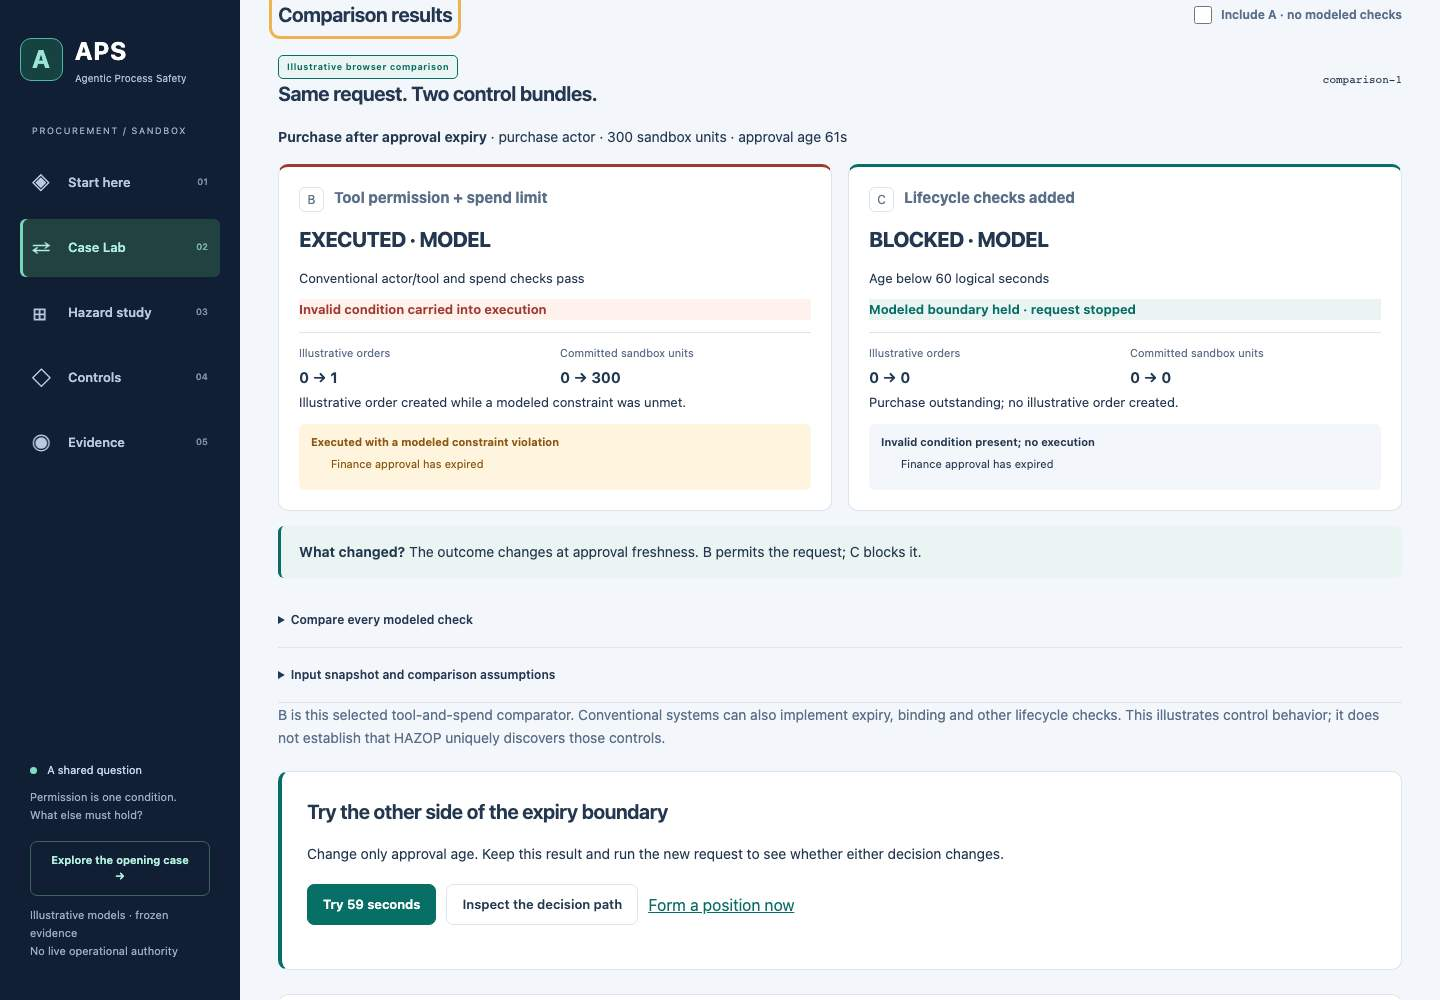
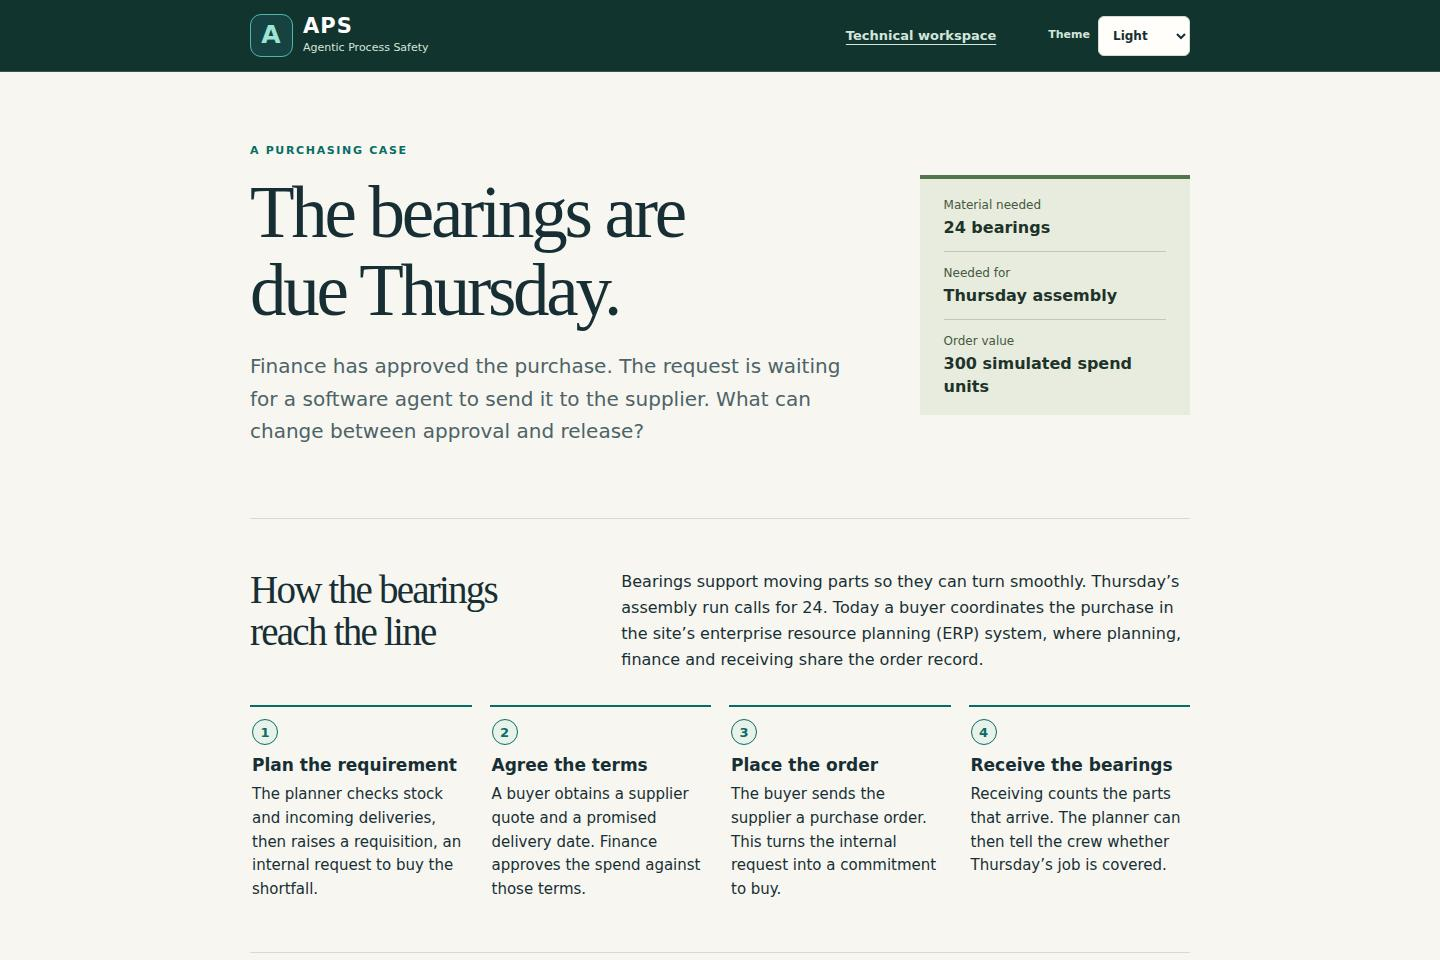
Show the REQ-218 bearings case in site link previews

diff --git a/apps/aps-demo/public/guide.html b/apps/aps-demo/public/guide.html
@@ -5,26 +5,26 @@
   <meta name="viewport" content="width=device-width, initial-scale=1.0">
   <meta name="color-scheme" content="light dark">
   <title>APS Project Guide | Compare Controls, Trace Causes, Examine Evidence</title>
-  <meta name="description" content="Explore the bearings business case in the APS research sandbox. Compare purchase rules, first-year value and three options for a site facing an expired approval.">
+  <meta name="description" content="Read the REQ-218 bearings case from the APS research sandbox. Trace the buyer’s work, the finance approval check and the evidence for a purchasing pilot.">
   <link rel="canonical" href="https://safetymp.github.io/Agentic-Process-Safety/guide.html">
   <link rel="sitemap" type="application/xml" href="./sitemap.xml">
   <meta property="og:type" content="website">
   <meta property="og:site_name" content="Agentic Process Safety">
-  <meta property="og:title" content="APS Project Guide | Compare Controls, Trace Causes, Examine Evidence">
-  <meta property="og:description" content="Explore the bearings business case in the APS research sandbox. Compare purchase rules, first-year value and three options for a site facing an expired approval.">
+  <meta property="og:title" content="REQ-218: The bearings are due Thursday | APS case guide">
+  <meta property="og:description" content="Read the REQ-218 bearings case from the APS research sandbox. Trace the buyer’s work, the finance approval check and the evidence for a purchasing pilot.">
   <meta property="og:url" content="https://safetymp.github.io/Agentic-Process-Safety/guide.html">
   <meta name="twitter:card" content="summary_large_image">
     <link rel="image_src" href="./social-preview.jpg">
-    <meta property="og:image" content="https://safetymp.github.io/Agentic-Process-Safety/social-preview.jpg">
+    <meta property="og:image" content="https://safetymp.github.io/Agentic-Process-Safety/social-preview.jpg?v=req-218">
     <meta property="og:image:width" content="1440">
-    <meta property="og:image:height" content="1000">
-    <meta property="og:image:alt" content="APS comparison: an expired-approval request executes under B and is stopped under C. Illustrative model only.">
-    <meta name="twitter:image" content="https://safetymp.github.io/Agentic-Process-Safety/social-preview.jpg">
-    <meta name="twitter:image:alt" content="APS comparison: an expired-approval request executes under B and is stopped under C. Illustrative model only.">
-  <meta name="twitter:title" content="APS Project Guide | Compare Controls, Trace Causes, Examine Evidence">
-  <meta name="twitter:description" content="Explore the bearings business case in the APS research sandbox. Compare purchase rules, first-year value and three options for a site facing an expired approval.">
+    <meta property="og:image:height" content="960">
+    <meta property="og:image:alt" content="The bearings are due Thursday. The APS case opens with 24 bearings needed for assembly and shows how the order moves from planning to receiving.">
+    <meta name="twitter:image" content="https://safetymp.github.io/Agentic-Process-Safety/social-preview.jpg?v=req-218">
+    <meta name="twitter:image:alt" content="The bearings are due Thursday. The APS case opens with 24 bearings needed for assembly and shows how the order moves from planning to receiving.">
+  <meta name="twitter:title" content="REQ-218: The bearings are due Thursday | APS case guide">
+  <meta name="twitter:description" content="Read the REQ-218 bearings case from the APS research sandbox. Trace the buyer’s work, the finance approval check and the evidence for a purchasing pilot.">
   <script type="application/ld+json">
-  {"@context":"https://schema.org","@type":"WebPage","name":"APS project and evidence guide","description":"Explore the bearings business case in the APS research sandbox. Compare purchase rules, first-year value and three options for a site facing an expired approval.","url":"https://safetymp.github.io/Agentic-Process-Safety/guide.html","isPartOf":{"@type":"WebSite","name":"Agentic Process Safety","url":"https://safetymp.github.io/Agentic-Process-Safety/"},"about":{"@type":"SoftwareSourceCode","name":"Agentic Process Safety (APS)","codeRepository":"https://github.com/SafetyMP/Agentic-Process-Safety"}}
+  {"@context":"https://schema.org","@type":"WebPage","name":"APS project and evidence guide","description":"Read the REQ-218 bearings case from the APS research sandbox. Trace the buyer’s work, the finance approval check and the evidence for a purchasing pilot.","url":"https://safetymp.github.io/Agentic-Process-Safety/guide.html","isPartOf":{"@type":"WebSite","name":"Agentic Process Safety","url":"https://safetymp.github.io/Agentic-Process-Safety/"},"about":{"@type":"SoftwareSourceCode","name":"Agentic Process Safety (APS)","codeRepository":"https://github.com/SafetyMP/Agentic-Process-Safety"}}
   </script>
   <style>
     :root{color-scheme:light dark;--bg:#f6f8fb;--panel:#fff;--text:#172b3a;--muted:#465b6d;--line:#ccd7df;--accent:#176459}*{box-sizing:border-box}body{margin:0;background:var(--bg);color:var(--text);font:17px/1.65 system-ui,sans-serif}main,header,footer{max-width:960px;margin:auto;padding:28px clamp(20px,4vw,48px)}header{padding-bottom:0}nav{display:flex;flex-wrap:wrap;gap:12px 24px}a{color:var(--accent);text-underline-offset:3px}a:focus-visible{outline:3px solid #bd7800;outline-offset:5px}h1{font-size:clamp(2rem,5vw,3.3rem);line-height:1.12;letter-spacing:-.035em;max-width:800px}h2{line-height:1.25;margin-top:2.4rem}h3{font-size:1.1rem}p,li{max-width:78ch}.eyebrow{font-weight:700;letter-spacing:.1em;font-size:.75rem;color:var(--accent)}.lead{font-size:1.2rem}.comparison{display:grid;grid-template-columns:1fr 1fr;gap:16px}.comparison article{background:var(--panel);padding:20px;border:1px solid var(--line);border-radius:8px}.comparison h3{margin-top:0}footer{border-top:1px solid var(--line);font-size:.9rem;color:var(--muted)}@media(prefers-color-scheme:dark){:root{--bg:#111b29;--panel:#1c2939;--text:#e3eaf2;--muted:#b8c5d2;--line:#3b4c5e;--accent:#9bd4c9}}@media(max-width:600px){.comparison{grid-template-columns:1fr}main{padding-top:14px}}

diff --git a/apps/aps-demo/index.html b/apps/aps-demo/index.html
@@ -5,30 +5,30 @@
     <meta name="viewport" content="width=device-width, initial-scale=1.0">
     <meta name="color-scheme" content="light dark">
     <title>Agentic Process Safety | Investigate AI Agent Workflow Risk</title>
-    <meta name="description" content="Follow a late purchasing order from an expired approval to Thursday’s assembly line. Explore the supply chain decisions in the APS research sandbox.">
+    <meta name="description" content="Thursday’s assembly needs 24 bearings. Follow REQ-218 through the APS research sandbox and decide what the buyer should verify before releasing or holding the order.">
     <link rel="canonical" href="https://safetymp.github.io/Agentic-Process-Safety/">
     <link rel="sitemap" type="application/xml" href="./sitemap.xml">
     <meta property="og:type" content="website">
     <meta property="og:site_name" content="Agentic Process Safety">
-    <meta property="og:title" content="Agentic Process Safety | Investigate AI Agent Workflow Risk">
-    <meta property="og:description" content="Follow a late purchasing order from an expired approval to Thursday’s assembly line. Explore the supply chain decisions in the APS research sandbox.">
+    <meta property="og:title" content="REQ-218: The bearings are due Thursday | APS">
+    <meta property="og:description" content="Thursday’s assembly needs 24 bearings. Follow REQ-218 through the APS research sandbox and decide what the buyer should verify before releasing or holding the order.">
     <meta property="og:url" content="https://safetymp.github.io/Agentic-Process-Safety/">
     <meta name="twitter:card" content="summary_large_image">
     <link rel="image_src" href="./social-preview.jpg">
-    <meta property="og:image" content="https://safetymp.github.io/Agentic-Process-Safety/social-preview.jpg">
+    <meta property="og:image" content="https://safetymp.github.io/Agentic-Process-Safety/social-preview.jpg?v=req-218">
     <meta property="og:image:width" content="1440">
-    <meta property="og:image:height" content="1000">
-    <meta property="og:image:alt" content="APS comparison: an expired-approval request executes under B and is stopped under C. Illustrative model only.">
-    <meta name="twitter:image" content="https://safetymp.github.io/Agentic-Process-Safety/social-preview.jpg">
-    <meta name="twitter:image:alt" content="APS comparison: an expired-approval request executes under B and is stopped under C. Illustrative model only.">
-    <meta name="twitter:title" content="Agentic Process Safety | Investigate AI Agent Workflow Risk">
-    <meta name="twitter:description" content="Follow a late purchasing order from an expired approval to Thursday’s assembly line. Explore the supply chain decisions in the APS research sandbox.">
+    <meta property="og:image:height" content="960">
+    <meta property="og:image:alt" content="The bearings are due Thursday. The APS case opens with 24 bearings needed for assembly and shows how the order moves from planning to receiving.">
+    <meta name="twitter:image" content="https://safetymp.github.io/Agentic-Process-Safety/social-preview.jpg?v=req-218">
+    <meta name="twitter:image:alt" content="The bearings are due Thursday. The APS case opens with 24 bearings needed for assembly and shows how the order moves from planning to receiving.">
+    <meta name="twitter:title" content="REQ-218: The bearings are due Thursday | APS">
+    <meta name="twitter:description" content="Thursday’s assembly needs 24 bearings. Follow REQ-218 through the APS research sandbox and decide what the buyer should verify before releasing or holding the order.">
     <script type="application/ld+json">
 {
   "@context": "https://schema.org",
   "@type": "SoftwareSourceCode",
   "name": "Agentic Process Safety (APS)",
-  "description": "Follow a late purchasing order from an expired approval to Thursday’s assembly line. Explore the supply chain decisions in the APS research sandbox.",
+  "description": "Thursday’s assembly needs 24 bearings. Follow REQ-218 through the APS research sandbox and decide what the buyer should verify before releasing or holding the order.",
   "url": "https://safetymp.github.io/Agentic-Process-Safety/",
   "codeRepository": "https://github.com/SafetyMP/Agentic-Process-Safety",
   "programmingLanguage": [

diff --git a/docs/assets/README.md b/docs/assets/README.md
@@ -2,13 +2,13 @@
 
 ## Bearings case
 
[2 lines of base64/hex data omitted]
 
 ## Earlier comparison interface
 
 `aps-comparison.jpg` is an unedited 1440 × 1000 capture of the public APS app from the verified deployment of commit `3ddc4ae9a0dc42c5af98fa7818121cf18a1b364f` on 2026-11-14. It shows the illustrative 61-second approval case: B executes with an expired approval; C holds the boundary and leaves the purchase outstanding. It contains synthetic inputs only.
 
[2 lines of base64/hex data omitted]
 
 This image describes that interface revision; it is not a current CI completion receipt. The source deployment is [run 43645203614](https://github.com/SafetyMP/Agentic-Process-Safety/actions/runs/43645203614). Fresh release acceptance still requires source-bound checks and review of its actual captures.
 

diff --git a/docs/SEO.md b/docs/SEO.md
@@ -17,7 +17,7 @@ The existing hash-based app routes remain application state. They are not listed
 
 ## Metadata and sharing
 
-Each HTML document has its own exact canonical URL, descriptive title and description, consistent Open Graph/Twitter metadata, and truthful structured data. The app is described as `SoftwareSourceCode`; the guide is a `WebPage` about that source project. Neither has fabricated ratings, reviews, certifications, modification dates or rich-result guarantees. The Pages link preview shows the earlier comparison interface. The GitHub README shows the opening of the bearings case. Both captures come from verified deployments. [Project image provenance](assets/README.md)
+Each HTML document has its own exact canonical URL, descriptive title and description, consistent Open Graph/Twitter metadata, and truthful structured data. The app is described as `SoftwareSourceCode`; the guide is a `WebPage` about that source project. Neither has fabricated ratings, reviews, certifications, modification dates or rich-result guarantees. The app and static guide use the same 1440 × 960 opening image as the repository README for their link previews. The image shows the need for 24 bearings and the buyer-led workflow for REQ-218. Both documents use `./social-preview.jpg` for `image_src`. Their Open Graph and Twitter tags use `https://safetymp.github.io/Agentic-Process-Safety/social-preview.jpg?v=req-218` so sharing services can refresh a cached preview. [Project image provenance](assets/README.md)
 
 The sitemap contains only the two reviewed canonical HTML documents, with no invented `lastmod` values. Relative asset paths continue to work under both supported case-sensitive Pages prefixes. These choices follow ordinary [canonicalization guidance](https://developers.google.com/search/docs/crawling-indexing/consolidate-duplicate-urls) and [sitemap guidance](https://developers.google.com/search/docs/crawling-indexing/sitemaps/build-sitemap), not a promise of indexing.
 
